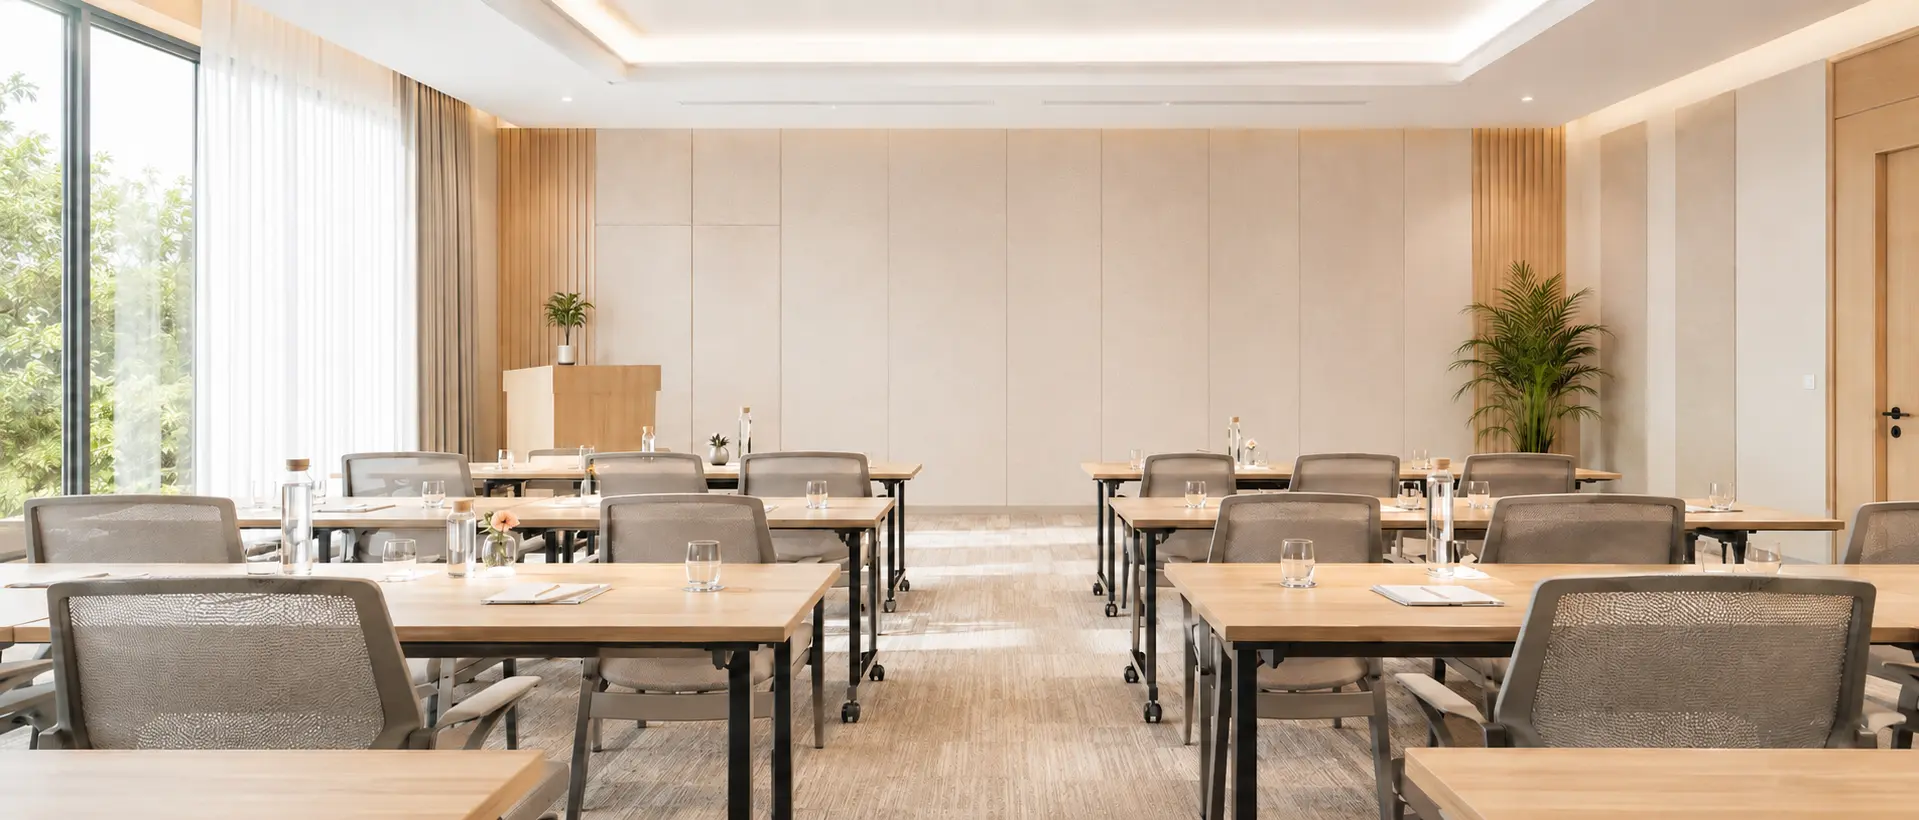
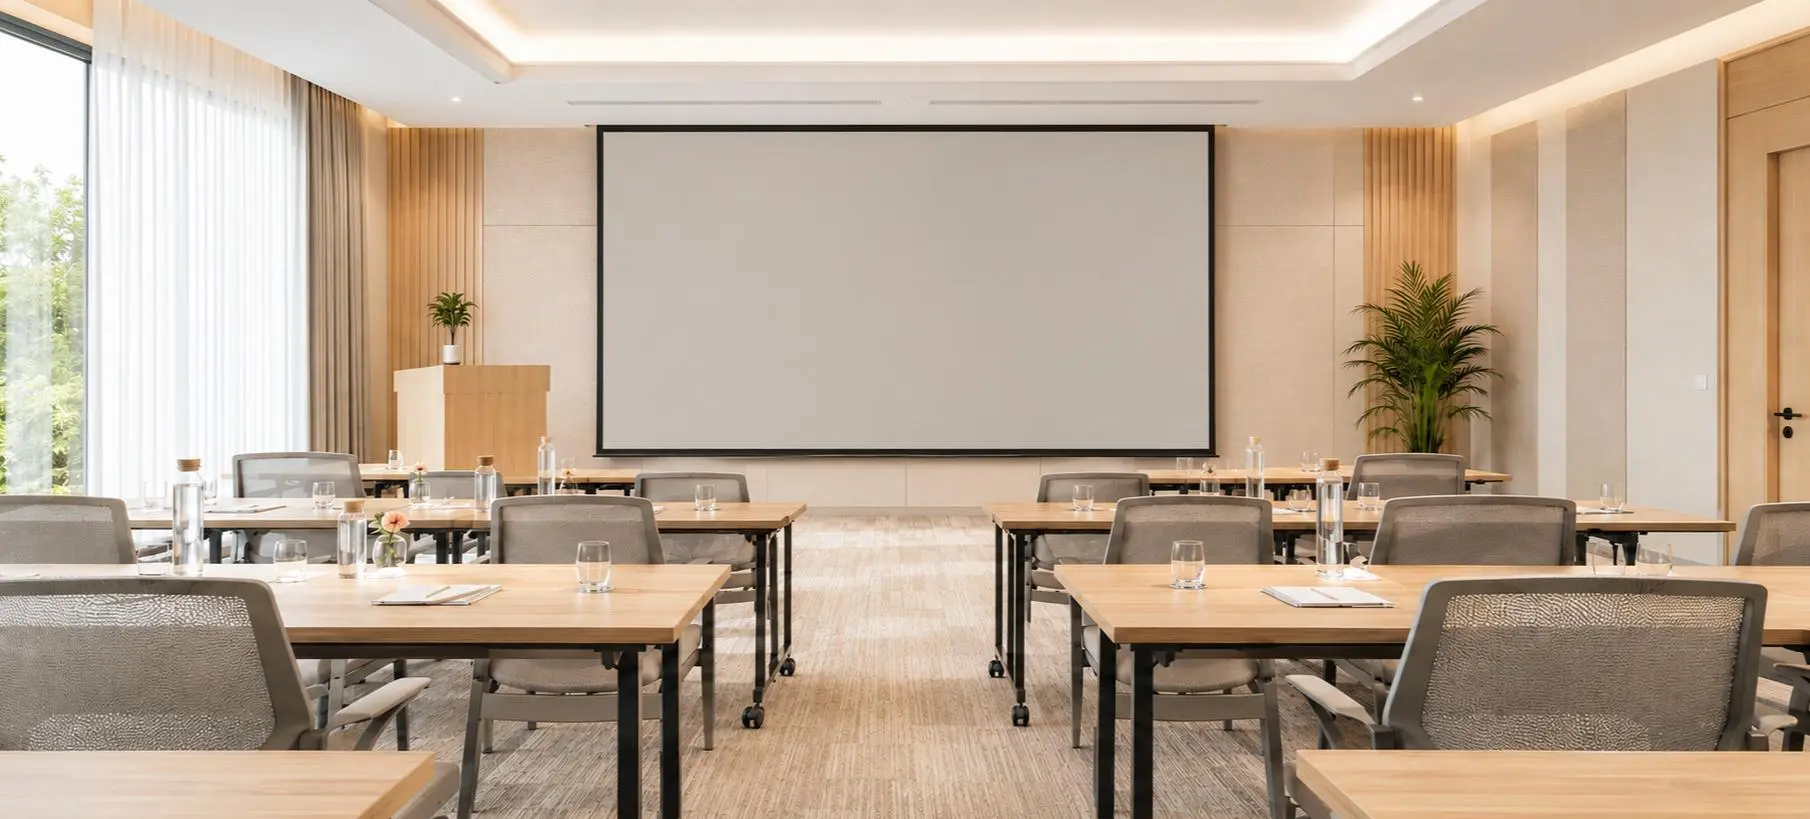
fix: update hero section styles and add new background images

diff --git a/app/components/HeroSection.vue b/app/components/HeroSection.vue
@@ -69,11 +69,16 @@
   .hero {
     position: relative;
     isolation: isolate;
-    min-height: 60rem;
+    width: 100%;
+    height: auto;
+    min-height: 40rem;
+    max-height: 51.25rem;
+    aspect-ratio: 1920 / 820;
+
     overflow: hidden;
     color: $color-white;
-    background: url('/images/hero/hero-background.webp') 70% -30% / cover no-repeat;
-    background-size: 110%;
+    background: url('/images/hero/hero-background.webp') center 15% / cover no-repeat;
+    background-size: 100%;
 
     // Локальное затемнение за центральным контентом
     &::after {
@@ -102,36 +107,35 @@
     }
 
     &__content {
+      display: flex;
+      flex-direction: column;
+      align-items: center;
       position: absolute;
       z-index: 2;
-      top: 49%;
+      top: 43%;
       left: 50%;
-      display: flex;
-      width: min(100% - 40px, 900px);
-      align-items: center;
-      flex-direction: column;
-      text-align: center;
+      width: min(100% - 4rem, 44rem);
       transform: translate(-50%, -50%);
     }
 
     &__logo {
-      width: 174px;
-      height: 174px;
-      margin-bottom: 23px;
+      width: 7.5rem; // 120px
+      height: 7.5rem;
+      margin-bottom: 0.75rem;
       object-fit: contain;
     }
 
     &__title {
       margin: 0;
       font-family: $font-frutiger;
-      font-size: 64px;
+      font-size: clamp(2.5rem, 2vw, 4rem);
       font-weight: 700;
       line-height: 1;
       letter-spacing: -1.3px;
     }
 
     &__subtitle {
-      margin-top: 27px;
+      margin-top: 1rem;
       font-family: $font-roboto;
       font-size: 24px;
       font-weight: 600;
@@ -139,13 +143,14 @@
     }
 
     &__description {
-      margin-top: 7px;
+      margin-top: 0.375rem;
       max-width: 480px;
       color: $color-white-85;
       font-family: $font-roboto;
       font-size: 16px;
       font-weight: 400;
       line-height: 1.4;
+      text-align: center;
     }
 
     &__button {
@@ -154,7 +159,7 @@
       align-items: center;
       justify-content: center;
       gap: 6px;
-      margin-top: 17px;
+      margin-top: 0.75rem;
       padding: 10px 15px;
       border: 0;
       color: $color-brown-warm;
